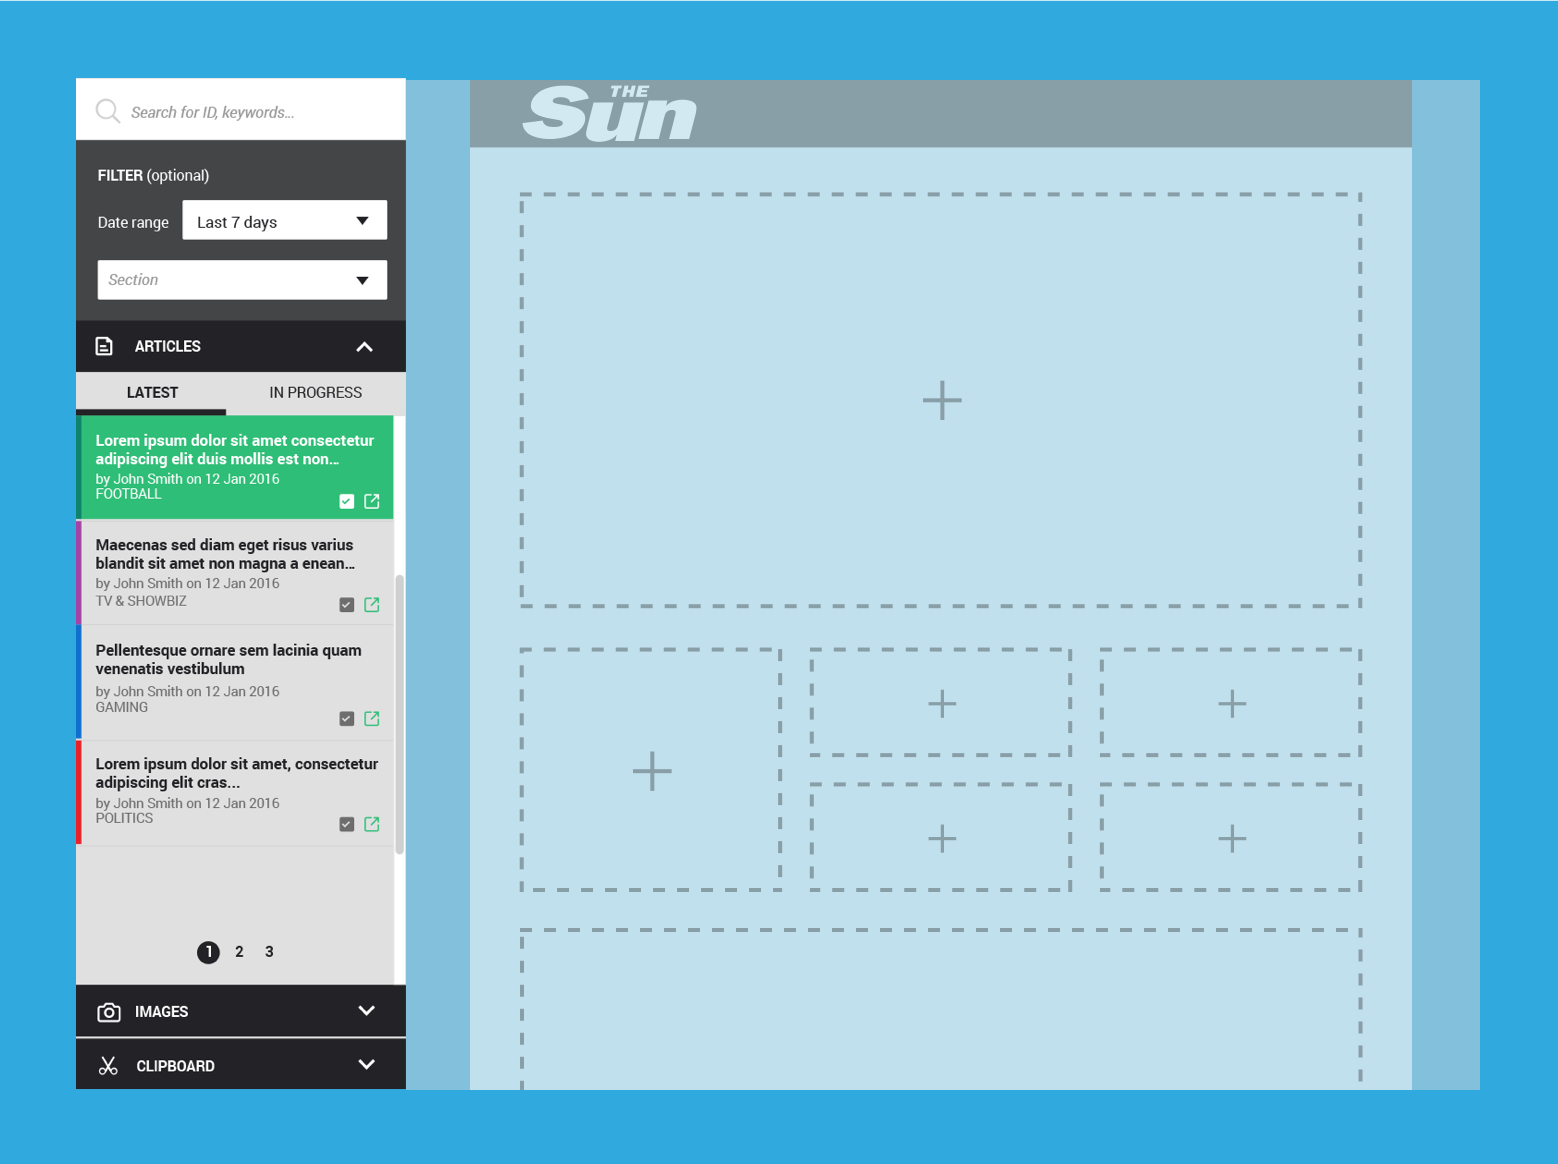
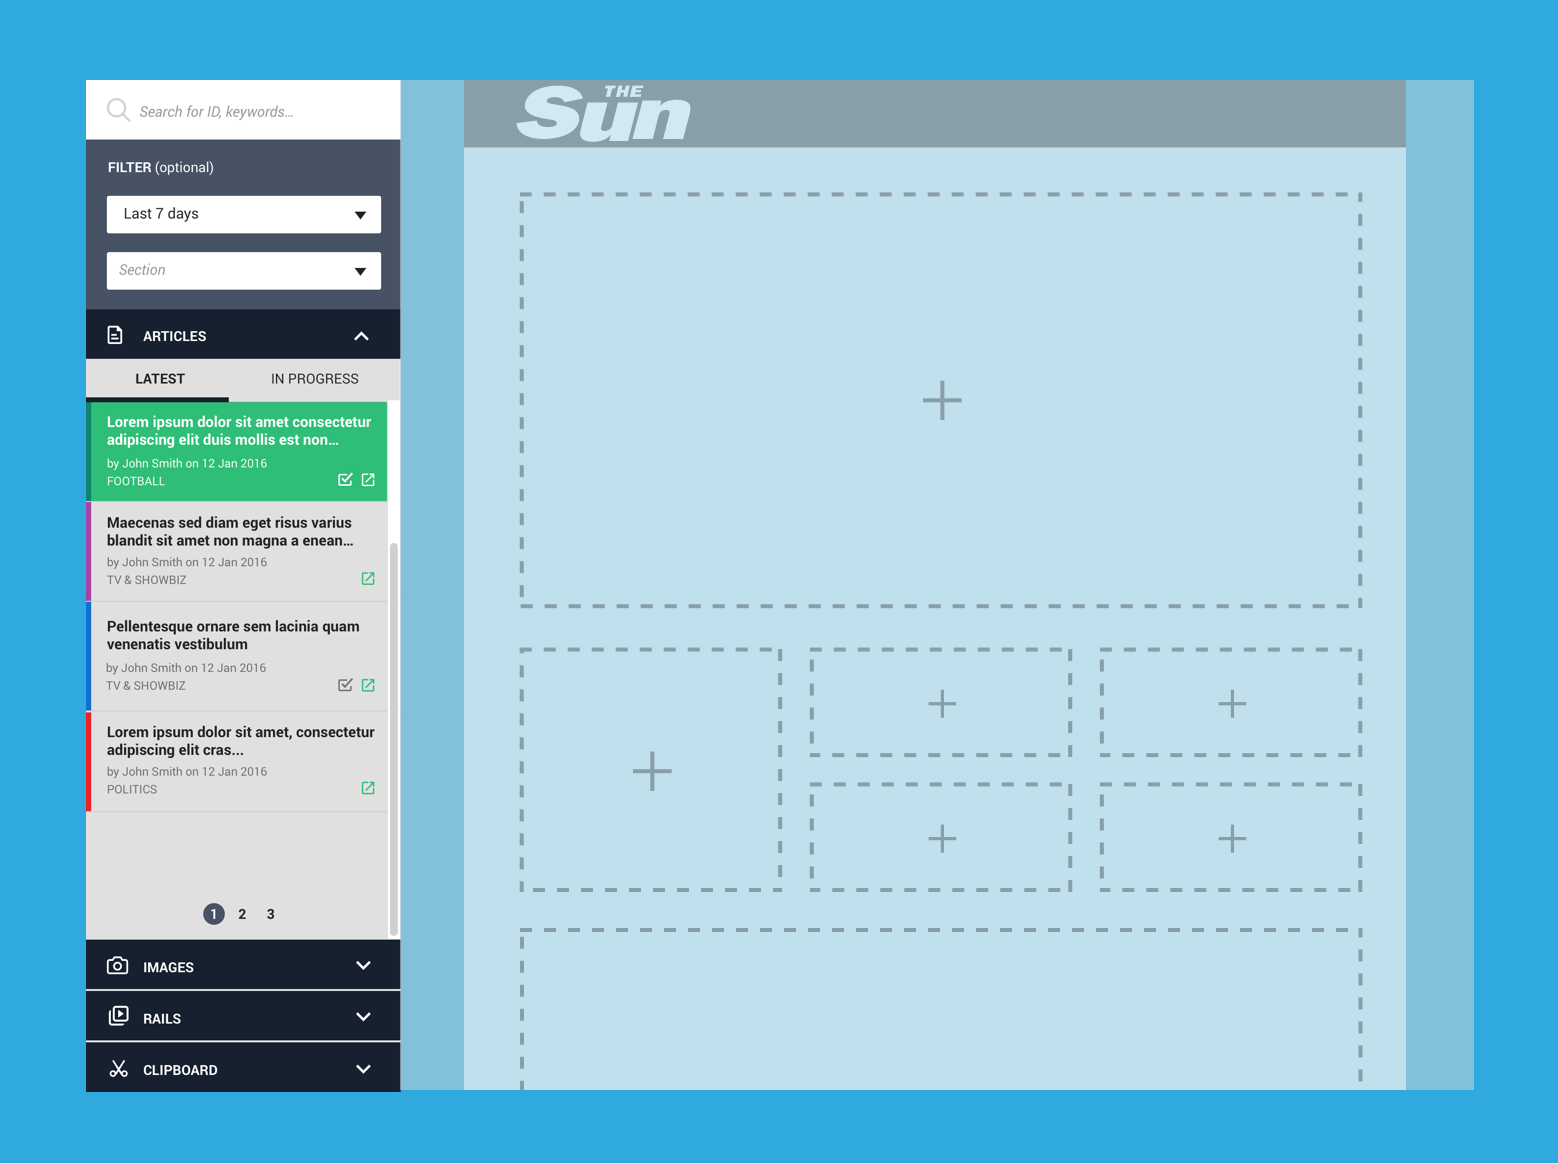
work on sun

Changed region(s): [[0.0308, 0.0619, 0.3081, 0.9278], [0.8935, 0.0928, 0.9551, 0.9278], [0.3389, 0.0619, 0.4621, 0.1237]]

diff --git a/layouts/shortcodes/pic.html b/layouts/shortcodes/pic.html
@@ -1,7 +1,13 @@
 <figure {{ if .Get "bg" }}class="has-bg" style="background-color: {{ .Get "bg" }}"{{ end }}>
-    <img 
-        alt="{{ .Get "caption" }}"
-        srcset="{{ .Page.Site.BaseURL }}{{ .Page.Source.Dir}}{{ .Get "src" }} 1x, {{ .Page.Site.BaseURL }}{{ .Page.Source.Dir}}{{ .Get "src2x" }} 2x" />
+	{{ if .Get "src2x" }}
+	    <img 
+	        alt="{{ .Get "caption" }}"
+	        srcset="{{ .Page.Site.BaseURL }}{{ .Page.Source.Dir}}{{ .Get "src" }} 1x, {{ .Page.Site.BaseURL }}{{ .Page.Source.Dir}}{{ .Get "src2x" }} 2x" />
+    {{ else }}
+     	<img 
+	        alt="{{ .Get "caption" }}"
+	        src="{{ .Page.Site.BaseURL }}{{ .Page.Source.Dir}}{{ .Get "src" }}" />
+    {{ end }}
     {{ if .Get "caption"}}
         <figcaption>
             <p>{{ .Get "caption" }}</p>

diff --git a/content/projects/sun-editor/index.md b/content/projects/sun-editor/index.md
@@ -8,7 +8,7 @@ url = "the-sun-editor"
 listimages = ["sun-list.png", "sun-list@2x.png"]
 +++
 
-I joined the Wordpress gurus at Human Made and The Sun UK tech team as UX consultant and visual designer to help them redesign their internal content management system.
+I joined the Wordpress gurus at Human Made and The Sun UK tech team as UX consultant and visual designer to help them design their internal content management system.
 
 Editors and journalists at The Sun UK that daily update the content of the homepage, needed an easy way to populate the page and edit the content on the go.  
 
@@ -20,13 +20,16 @@ To gather everyone’s ideas I’ve chosen the Vision Board format, that compare
 
 {{< pic src="vision.png" src2x="vision@2x.png" caption="Vision Board" >}}
 
-### Needs, Goals and Features
+### Needs vs Features: Drag & drop or click?
 
-Some of the editors were really keen in having a ‘drag and drop’ functionality. Reason being as expected: *‘Because that way it’s easy to move things around’*.
+Some of the editors were really keen in having a ‘drag and drop’ functionality because nice and intuitive.
 
-In this case ‘drag and drop’ it’s considered a feature, a way to achieve a goal. The goal of ‘moving things around easily’. What if there were plenty of other solutions to get the same outcome? 
+In this case ‘drag & drop’ is considered a feature, a way to achieve a goal, the goal of ‘moving things around easily’. What if there were plenty of other solutions to get the same outcome? 
 
-That’s why designers should always take a step back and question what the real user goals are before taking any suggestions. Sometimes what seems a good solution might not be the best.
+Sometimes what seems like a good solution might not be the best and a designer should always take a step back and question the real users goals.
+
+In this scenario drag & drop seemed unnecessary and even frustrating as source and destination might not be both in view and in reach, therefore we preferred using simple clicks to select articles and available slots.
+
 
 {{< quote >}}
 Tell me what you want and I’ll tell you what you need.
@@ -40,7 +43,7 @@ After having analysed all the materials from the workshop I started sketching so
 
 ### Editing Tools
 
-Successively we decided to dive into more detail starting from the article preview itself. It was clear that the editors needed a specific set of tools to accomplish certain tasks like: edit articles headlines and images, resize them, move articles to different slots. How to access those tools and what the best way to display them? 
+We successively dived into more detail starting from the article preview itself. The editors needed some tools to accomplish certain tasks like: edit articles headlines and images, resize them, move articles to different slots. How to access those tools and what the best way to display them? 
 
 After considering different options we opted for a small toolbar that would appear when clicking on each article block. My aim was to keep the editing interface as invisible as possible, as WYSIWYG should be.
 
@@ -54,7 +57,7 @@ As well as editing each article block, it was necessary to edit the page at high
 
 I evaluated and prototyped different options using very simple wireframes with colorful blocks.
 
-{{< pic src="article-blocks-prototype.png" src2x="article-blocks-prototype@2x.png"caption="Example of simple flow to move an article to a different slot" >}}
+{{< pic src="article-blocks-prototype.png" src2x="article-blocks-prototype@2x.png" caption="Example of simple flow to move an article to a different slot" >}}
 
 Moving A to B it’s a pretty simple flow part from the fact that it’s not. The interface needs to answer questions like “What article am I moving?”, “Where can I move it to?”, “ How is it going to look like?”, “What happens when I’ve finished swapping articles?”, “What if I changed my mind?”
 
@@ -62,13 +65,17 @@ To answer those questions, notifications and visual cues play a significant role
 
 {{< pic src="messages.png" src2x="messages@2x.png" caption="Notifications" >}}
 
+## Design
+
+Once happy with the overall layout I started translating my sketches into more high-fidelity mock ups. 
+
 ### Sourcing Content
 
 To source content for the homepage and potentially the rest of the website we created a panel where it's possible to search and filter the library of articles and images by keyword, date range and Section.
 
 From the panel you can see what the latest articles are and which one are still in progress. Color coding for the bars on the left allow to see at glance the section the articles belong to.
 
-{{< pic src="left-panel.png" src2x="left-panel@2x.png" caption="Notifications" >}}
+{{< pic src="left-panel.png" src2x="left-panel@2x.png" caption="Articles list" >}}
 
 
 ### Clipboard
@@ -79,7 +86,11 @@ Editors can now play around with the homepage layout and, when they need to retr
 
 Useful, indeed!
 
+{{< pic src="left-panel-clipboard.png" src2x="left-panel-clipboard@2x.png" caption="Clipboard" >}}
 
+These are just some examples of the features we designed, there is much more that the editorial interface can do, and the engineers and product team at The Sun UK are working constantly to improve it. 
+
+I'm glad I had the chance to kick-start with them this project to create a useful system that will speed up someone's daily tasks!
 
 
 

diff --git a/content/projects/children-society/index.md b/content/projects/children-society/index.md
@@ -1,6 +1,6 @@
 +++
 title = "The Children’s Society Digital Rebranding"
-client = "Manifesto Digital/The Children’s Society"
+client = "Manifesto Digital / The Children’s Society"
 colour = "#def9af"
 date = "2016-04-25"
 tags = ["Charity", "UX", "Visual design"]
